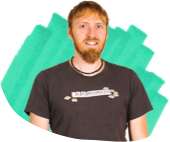
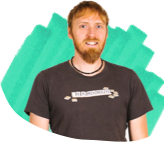
Author component and included in text block

diff --git a/assets/sass/components/text-block.scss b/assets/sass/components/text-block.scss
@@ -1,10 +1,21 @@
 .TextBlock {
-    max-width: px2em(460px);
-    padding: px2rem(16px);
+    max-width: px2em(480px);
+    padding: 0 px2rem(16px) px2rem(16px);
     margin: 0 auto;
+}
+@media screen and (min-width: px2em(360px)) {
+    .TextBlock-author {
+        float: left;
+        margin-right: px2rem(16px);
+    }
 }
 @media screen and (min-width: px2em(500px)) {
     .TextBlock {
         padding-bottom: px2rem(16px);
+    }
+}
+@media screen and (min-width: px2rem(700px)) {
+    .TextBlock-author {
+        margin-left: px2rem(-136px);
     }
 }

diff --git a/assets/sass/base/prose.scss b/assets/sass/base/prose.scss
@@ -15,14 +15,18 @@
     h2 {
         @include font(30px, 35px);
         letter-spacing: px2rem(-0.43px);
-        margin-top: px2rem(32px);
+        margin-top: px2rem(8px);
+    }
+    p {
+        margin-bottom: px2rem(16px);
     }
 }
 @media screen and (min-width: px2em(500px)) {
     .Prose {
         h2 {
-            @include font(43px, 49px);
+            @include font(43px, 48px);
             letter-spacing: px2rem(-0.64px);
+            margin-top: px2rem(32px);
         }
     }
 }

diff --git a/components/02-units/text-block/text-block.config.js b/components/02-units/text-block/text-block.config.js
@@ -5,5 +5,13 @@ module.exports = {
     "context": {
         "textBlockText": faker.lorem.paragraphs(),
         "textBlockTitle": faker.lorem.sentence()
-    }
+    },
+    "variants": [{
+        "name": "Author",
+        "context": {
+            "textBlockModifier": "--author",
+            "authorImage": "@author.authorImage",
+            "authorName": "@author.authorName"
+        }
+    }]
 }

diff --git a/assets/sass/components/author.scss b/assets/sass/components/author.scss
@@ -1,0 +1,10 @@
+.Author {
+    max-width: px2rem(120px);
+    padding: px2rem(8px);
+    text-align: center;
+    display: inline-block;
+}
+.Author-image {
+    margin: 0 auto;
+    display: block;
+}

diff --git a/components/02-units/author/author.config.js b/components/02-units/author/author.config.js
@@ -1,0 +1,7 @@
+module.exports = {
+    "status": "wip",
+    "context": {
+        "authorImage": "/assets/img/team/voice/graham.png",
+        "authorName": "Graham Smith"
+    }
+}
